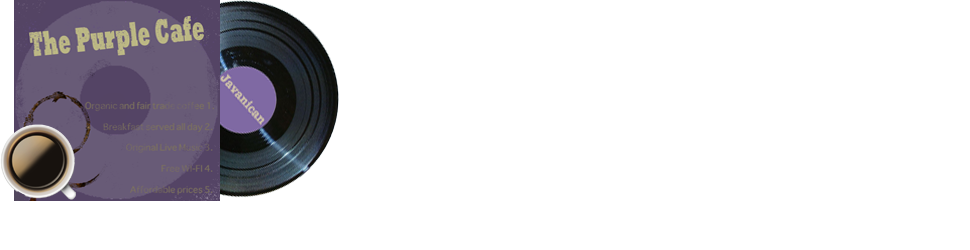
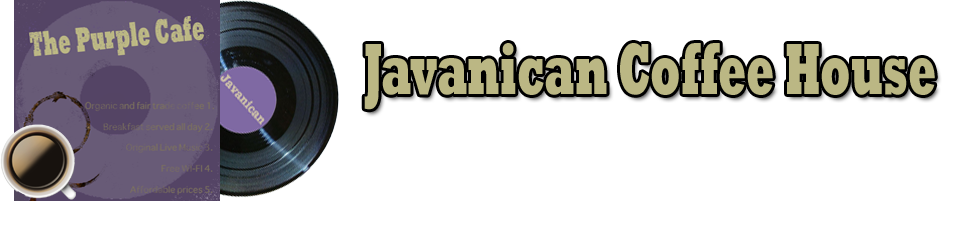
header

Changed region(s): [[0.3711, 0.14, 0.9897, 0.476]]

diff --git a/Stylesheets/main.css b/Stylesheets/main.css
@@ -32,7 +32,7 @@ h1 {
 	font-stretch: extra-expanded;
 	font-size: 24pt;
 	letter-spacing: 5px;
-	color: #42426F;
+	color: #5D478B;
 }
 
 h3 {
@@ -42,7 +42,7 @@ h3 {
 	font-stretch: extra-expanded;
 	font-size: 16pt;
 	letter-spacing: 10px;
-	color: #42426F;
+	color: #5D478B;
 }
 
 #body_main .pics {
